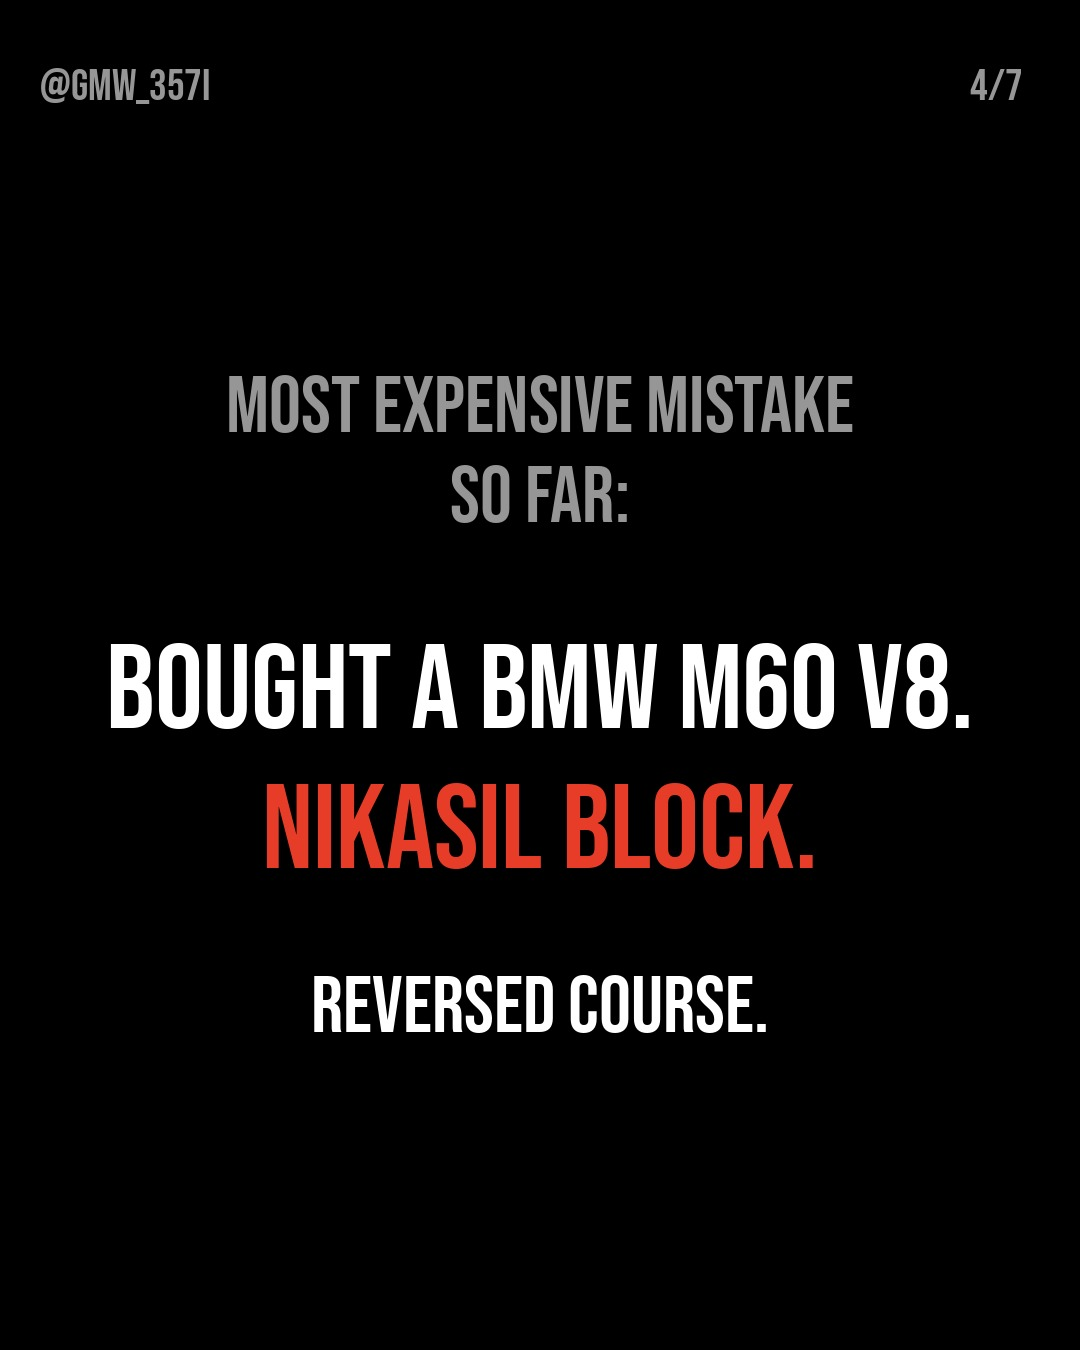
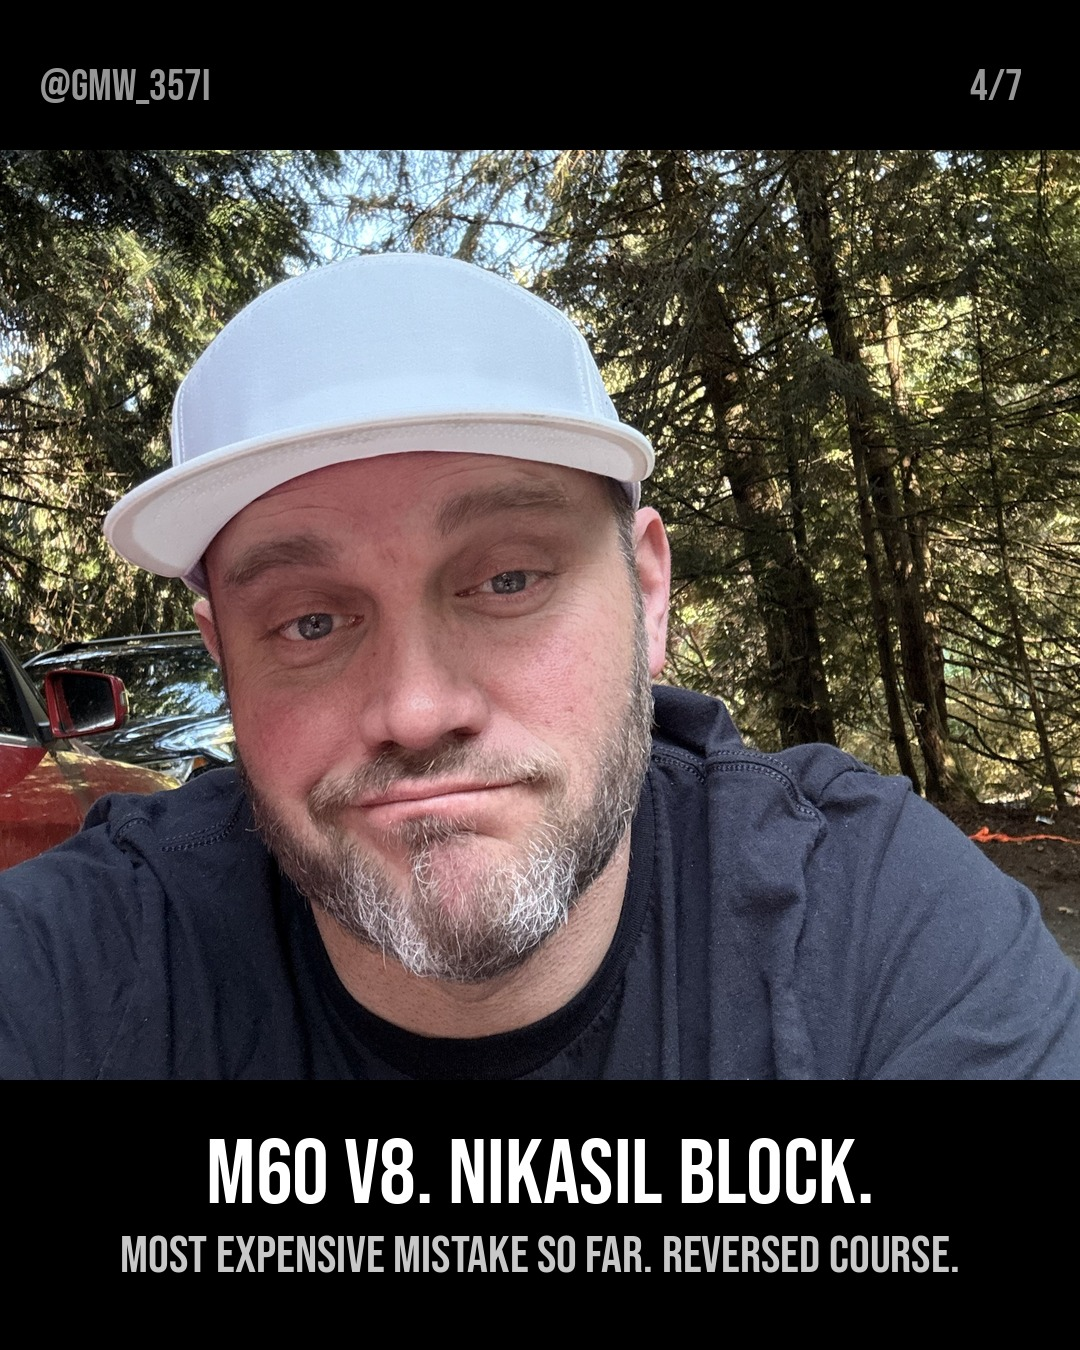
Put the regret selfie on @GMW_357i carousel slide 4
The Nikasil mistake slide was text-only; pair it with the owner's
reaction shot. The text-only layout stays as the fallback.

Claude-Session: https://claude.ai/code/session_01NSJRZH3dS4Z1j3nfJoW5hV

diff --git a/marketing/social-media/gmw_357i/2026-09-origin-carousel/build_slides.py b/marketing/social-media/gmw_357i/2026-09-origin-carousel/build_slides.py
@@ -1,6 +1,6 @@
 """Render the @GMW_357i origin carousel (1080x1350, Instagram 4:5).
 
-Usage: python3 build_slides.py <source_dir> <font.ttf> [dog_photo]
+Usage: python3 build_slides.py <source_dir> <font.ttf> [dog_photo] [regret_selfie]
 Source photos are the owner's originals; outputs land next to this script.
 """
 import os
@@ -13,6 +13,7 @@ OUT = os.path.dirname(os.path.abspath(__file__))
 
 src, font_path = sys.argv[1], sys.argv[2]
 dog = sys.argv[3] if len(sys.argv) > 3 else None
+regret = sys.argv[4] if len(sys.argv) > 4 else None
 
 
 def font(size):
@@ -77,17 +78,19 @@ slide(2, load("a9ab0e47-image.jpg", (0, 272, 1080, 1080)),
 slide(3, load("3bbab943-image.jpg", (0, 270, 1080, 1080)),
       "IT CAME APART FIRST.", "ENGINE. CLUTCH. DIFF. ALL OF IT.")
 
-# Slide 4: text-only confession, no photo exists for the M60
-c = Image.new("RGB", (W, H), "black")
-d = ImageDraw.Draw(c)
-d.text((40, 60), "@GMW_357I", font=font(44), fill=(150, 150, 150))
-d.text((W - 110, 60), "4/7", font=font(44), fill=(150, 150, 150))
-centered(d, 360, "MOST EXPENSIVE MISTAKE", 80, fill=(150, 150, 150))
-centered(d, 450, "SO FAR:", 80, fill=(150, 150, 150))
-centered(d, 620, "BOUGHT A BMW M60 V8.", 120)
-centered(d, 760, "NIKASIL BLOCK.", 120, fill=(230, 60, 40))
-centered(d, 960, "REVERSED COURSE.", 80)
-c.save(os.path.join(OUT, "slide_4.jpg"), quality=92)
+# Slide 4: the M60 confession. No photo of the M60 exists, so the face tells it.
+def slide_4_text_only():
+    c = Image.new("RGB", (W, H), "black")
+    d = ImageDraw.Draw(c)
+    d.text((40, 60), "@GMW_357I", font=font(44), fill=(150, 150, 150))
+    d.text((W - 110, 60), "4/7", font=font(44), fill=(150, 150, 150))
+    centered(d, 360, "MOST EXPENSIVE MISTAKE", 80, fill=(150, 150, 150))
+    centered(d, 450, "SO FAR:", 80, fill=(150, 150, 150))
+    centered(d, 620, "BOUGHT A BMW M60 V8.", 120)
+    centered(d, 760, "NIKASIL BLOCK.", 120, fill=(230, 60, 40))
+    centered(d, 960, "REVERSED COURSE.", 80)
+    c.save(os.path.join(OUT, "slide_4.jpg"), quality=92)
+
 
 slide(5, load("ba12c471-image.jpg"),
       "SO I WENT AMERICAN.", "5.7L LS1. PARTS IN EVERY TOWN.", anchor=1.0)
@@ -102,4 +105,9 @@ def face_crop(im, cy=0.56):
 
 slide(7, face_crop(ImageOps.exif_transpose(Image.open(dog)).convert("RGB")) if dog else None,
       "THE REAL CREW CHIEF.", "SUPERVISES. DOES NOT TURN WRENCHES." if dog else "[ DOG PHOTO GOES HERE ]")
+if regret:
+    slide(4, face_crop(ImageOps.exif_transpose(Image.open(regret)).convert("RGB"), cy=0.62),
+          "M60 V8. NIKASIL BLOCK.", "MOST EXPENSIVE MISTAKE SO FAR. REVERSED COURSE.")
+else:
+    slide_4_text_only()
 print("done")

diff --git a/marketing/social-media/gmw_357i/2026-09-origin-carousel/CAPTION.md b/marketing/social-media/gmw_357i/2026-09-origin-carousel/CAPTION.md
@@ -1,7 +1,7 @@
 # @GMW_357i origin carousel
 
 Post as a 7-slide carousel, slides in order `slide_1.jpg` to `slide_7.jpg` (1080x1350, 4:5).
-Rebuild: `python3 build_slides.py <photo_dir> <BebasNeue-Regular.ttf> <dog_photo.jpg>`
+Rebuild: `python3 build_slides.py <photo_dir> <BebasNeue-Regular.ttf> <dog_photo.jpg> <regret_selfie.jpg>`
 
 ## Caption
 
